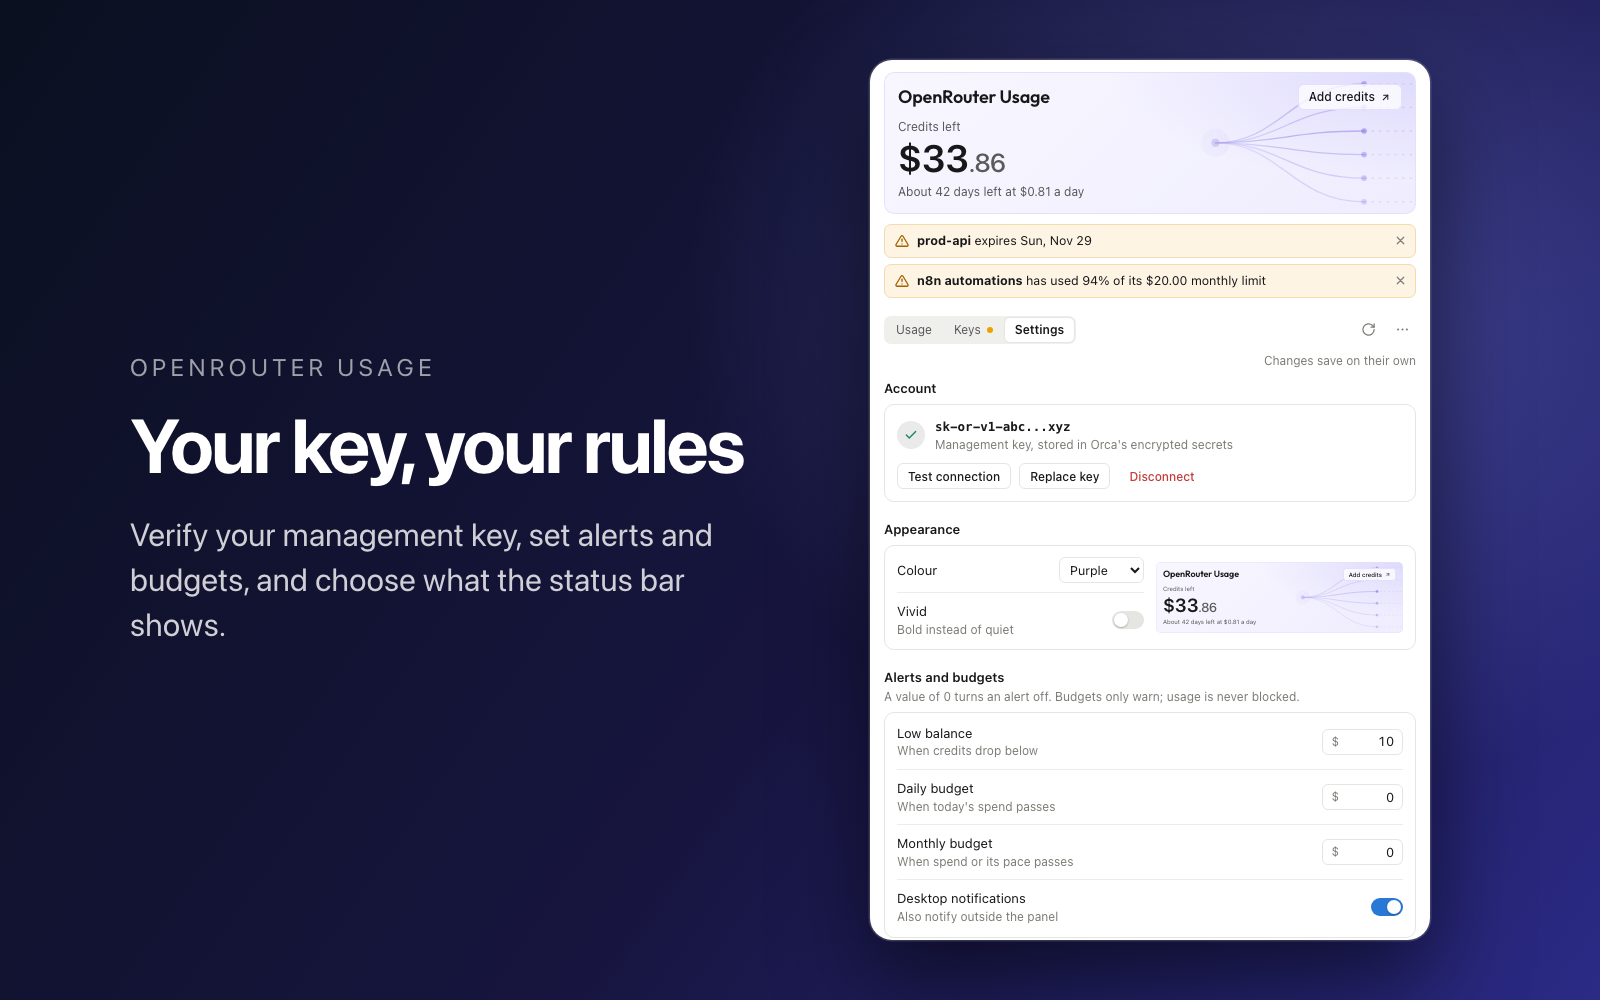
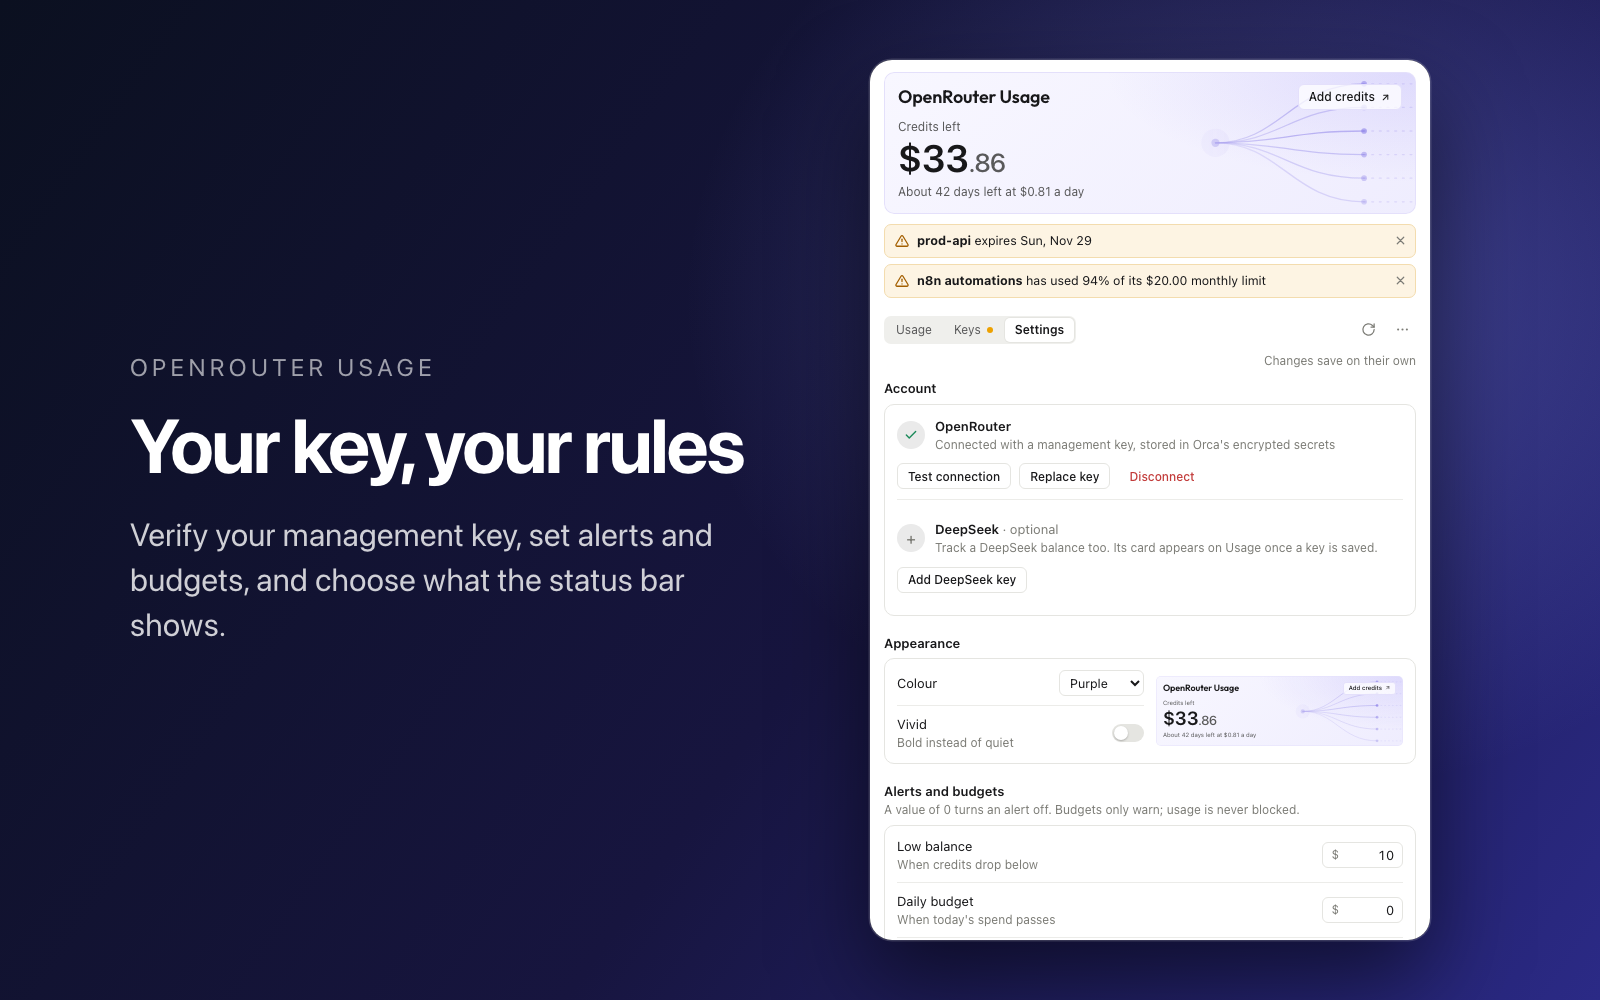
feat: status bar shows today's spend; hover for each account, click for the panel
The status bar item now shows only what was spent today: OpenRouter's
key totals plus DeepSeek's balance drop since UTC midnight when it is in
dollars. Its tooltip has one line per account (balance, today's spend,
days left), and a click shows or hides the right sidebar. It turns amber
or red when either account runs low. Removes the "Next to credits"
setting it replaces.

diff --git a/src/worker.ts b/src/worker.ts
@@ -1,11 +1,11 @@
 // The plugin's worker: owns the API keys, the network, the cache and the alerts. The panel only
 // asks it for finished reports (src/protocol.ts) and never sees a key.
 import type { OrcaWorkerApi } from 'orca/worker'
-import type { BannerColor, DayRow, DeepSeekView, KeyInfo, Measure, Range, Report, Settings, Status, StatusBarContent } from './protocol'
+import type { BannerColor, DayRow, DeepSeekView, KeyInfo, Measure, Range, Report, Settings, Status } from './protocol'
 import { OpenRouterError, createClient, getActivity, getCredits, getKeyActivity, getKeyMeta, listKeys } from './core/openrouter'
 import { buildReport, keyMayHaveRecentActivity, normalizeActivity, normalizeKeys, todaySpend } from './core/report'
 import { addSnapshot, mergeDays, pruneRows, type Snapshot } from './core/history'
-import { addSnapshots, burnPerDay, describeDeepSeekError, getBalance, maskKey, DeepSeekError, type DeepSeekAccount, type DeepSeekSnapshot } from './core/deepseek'
+import { addSnapshots, burnPerDay, spentSince, describeDeepSeekError, getBalance, maskKey, DeepSeekError, type DeepSeekAccount, type DeepSeekSnapshot } from './core/deepseek'
 import { reportCsv } from './core/csv'
 
 const MGMT_KEY = 'mgmtKey'
@@ -44,13 +44,11 @@ const DEFAULT_SETTINGS: Settings = {
   monthlyBudgetUsd: 0,
   notifications: true,
   statusBar: true,
-  statusBarContent: 'credits-today',
   includeByok: true,
   bannerColor: 'purple',
   bannerVivid: false,
 }
 
-const CONTENT_CHOICES: readonly StatusBarContent[] = ['credits', 'credits-today', 'credits-days']
 const BANNER_COLORS: readonly BannerColor[] = ['purple', 'gold', 'teal', 'rose', 'graphite']
 
 // Plain-English reasons for the failures a person can actually act on.
@@ -118,9 +116,6 @@ export default function activate(orca: OrcaWorkerApi): void {
       monthlyBudgetUsd: clampNumber(raw.monthlyBudgetUsd, 0, 1_000_000, DEFAULT_SETTINGS.monthlyBudgetUsd),
       notifications: bool('notifications'),
       statusBar: bool('statusBar'),
-      statusBarContent: CONTENT_CHOICES.includes(raw.statusBarContent as StatusBarContent)
-        ? (raw.statusBarContent as StatusBarContent)
-        : DEFAULT_SETTINGS.statusBarContent,
       includeByok: bool('includeByok'),
       bannerColor: BANNER_COLORS.includes(raw.bannerColor as BannerColor) ? (raw.bannerColor as BannerColor) : DEFAULT_SETTINGS.bannerColor,
       bannerVivid: bool('bannerVivid'),
@@ -162,18 +157,33 @@ export default function activate(orca: OrcaWorkerApi): void {
     const remaining = cache.credits.totalCredits - cache.credits.totalUsage
     const today = todaySpend(cache.keys, settings.includeByok)
     const low = settings.lowBalanceUsd
-    const tone = low > 0 && remaining <= low / 2 ? 'danger' : low > 0 && remaining <= low ? 'warning' : 'neutral'
-    let extra = ''
-    if (settings.statusBarContent === 'credits-today') extra = ` · ${usd(today)} today`
-    else if (settings.statusBarContent === 'credits-days') {
-      const days = (await currentReport('7d', 'cost'))?.balance.daysLeft
-      if (days != null) extra = ` · ~${Math.round(days)}d left`
+    let tone: 'neutral' | 'warning' | 'danger' = low > 0 && remaining <= low / 2 ? 'danger' : low > 0 && remaining <= low ? 'warning' : 'neutral'
+    const report = await currentReport('7d', 'cost', settings)
+    const days = report?.balance.daysLeft
+    const lines = [`OpenRouter: ${usd(remaining)} left · ${usd(today)} today${days != null ? ` · about ${Math.round(days)} day${Math.round(days) === 1 ? '' : 's'} left` : ''}`]
+    // The text is what was spent today: OpenRouter plus DeepSeek when it is in dollars.
+    let spent = today
+    const ds = await deepSeekView()
+    if (ds) {
+      if (ds.authFailed) lines.push('DeepSeek: key rejected')
+      for (const b of ds.balances) {
+        const money = b.currency === 'USD' ? usd : (n: number) => `${n.toFixed(2)} ${b.currency}`
+        const parts = [`${money(b.total)} left`]
+        if (b.spentToday != null) parts.push(`about ${money(b.spentToday)} today`)
+        if (b.daysLeft != null) parts.push(`about ${Math.round(b.daysLeft)} day${Math.round(b.daysLeft) === 1 ? '' : 's'} left`)
+        lines.push(`DeepSeek: ${parts.join(' · ')}`)
+        if (b.currency === 'USD' && b.spentToday != null) spent += b.spentToday
+        if (ds.available === false || (b.daysLeft != null && b.daysLeft <= 1)) tone = 'danger'
+        else if (b.daysLeft != null && b.daysLeft <= 3 && tone === 'neutral') tone = 'warning'
+      }
+      if (ds.authFailed && tone === 'neutral') tone = 'warning'
     }
+    lines.push('Click to show or hide the panel.')
     await orca.host.call('statusBar.update', {
       id: 'balance',
-      text: `${usd(remaining)} left${extra}`,
+      text: `${usd(spent)} today`,
       tone,
-      tooltip: 'OpenRouter credits left',
+      tooltip: lines.join('\n'),
       visible: true,
     })
   }
@@ -344,9 +354,9 @@ export default function activate(orca: OrcaWorkerApi): void {
         const label = await getKeyMeta(createClient({ key })).catch(() => null)
         if (label) await orca.storage.set(KEY_LABEL, label.label as never)
       }
+      await refreshDeepSeek()
       await updateStatusBar()
       if (outcome.ok) await checkAlerts()
-      await refreshDeepSeek()
     } catch (e) {
       orca.log(`post-refresh step failed: ${e instanceof Error ? e.message : 'error'}`)
     }
@@ -424,7 +434,8 @@ export default function activate(orca: OrcaWorkerApi): void {
       available: cache ? cache.available : null,
       balances: (cache?.balances ?? []).map((b) => {
         const burn = burnPerDay(snaps, b.currency, now)
-        return { ...b, burnPerDay: burn, daysLeft: burn && burn > 0 ? b.total / burn : null }
+        const midnight = Date.parse(new Date(now).toISOString().slice(0, 10) + 'T00:00:00Z')
+        return { ...b, burnPerDay: burn, daysLeft: burn && burn > 0 ? b.total / burn : null, spentToday: spentSince(snaps, b.currency, midnight) }
       }),
       updatedAt: cache ? cache.at : null,
       error: meta.error,
@@ -453,12 +464,14 @@ export default function activate(orca: OrcaWorkerApi): void {
     await orca.storage.set('dsSnapshots', addSnapshots([], account, now) as never)
     await orca.storage.set('dsMeta', { error: null, authFailed: false } as never)
     orca.panels.post('report.changed', { at: now })
+    detach(updateStatusBar())
     return { ok: true as const, label }
   })
 
   orca.panels.handle('deepseek.test', async () => {
     if (!(await orca.secrets.get(DS_KEY))) return { ok: false as const, error: 'No DeepSeek key saved.' }
     await refreshDeepSeek()
+    detach(updateStatusBar())
     const meta = await load<DsMeta>('dsMeta', { error: null, authFailed: false })
     return meta.error ? { ok: false as const, error: meta.error } : { ok: true as const }
   })
@@ -468,6 +481,7 @@ export default function activate(orca: OrcaWorkerApi): void {
     await orca.secrets.delete(DS_KEY)
     for (const k of DS_STORE) await orca.storage.delete(k)
     orca.panels.post('report.changed', { at: Date.now() })
+    detach(updateStatusBar())
     return { ok: true as const }
   })
 
@@ -545,7 +559,6 @@ export default function activate(orca: OrcaWorkerApi): void {
     if (patch.monthlyBudgetUsd !== undefined) next.monthlyBudgetUsd = clampNumber(patch.monthlyBudgetUsd, 0, 1_000_000, next.monthlyBudgetUsd)
     if (typeof patch.notifications === 'boolean') next.notifications = patch.notifications
     if (typeof patch.statusBar === 'boolean') next.statusBar = patch.statusBar
-    if (patch.statusBarContent !== undefined && CONTENT_CHOICES.includes(patch.statusBarContent)) next.statusBarContent = patch.statusBarContent
     if (typeof patch.includeByok === 'boolean') next.includeByok = patch.includeByok
     if (patch.bannerColor !== undefined && BANNER_COLORS.includes(patch.bannerColor)) next.bannerColor = patch.bannerColor
     if (typeof patch.bannerVivid === 'boolean') next.bannerVivid = patch.bannerVivid

diff --git a/src/worker.test.ts b/src/worker.test.ts
@@ -109,7 +109,7 @@ test('saves the key, remembers its masked label, and serves a report without tot
   assert.ok(!('totalCredits' in report.balance) && !('totalUsage' in report.balance))
   assert.ok(report.daily.length > 0)
   assert.ok(report.models[0].series.length > 0)
-  assert.ok(lastBar(host).text?.includes('left'))
+  assert.ok(lastBar(host).text?.endsWith(' today'))
   // The key lives only in secrets, and the total never reaches the status bar.
   assert.ok(!JSON.stringify(host.data().storage).includes(MGMT))
   assert.ok(!JSON.stringify(worker.posts).includes(MGMT))
@@ -234,7 +234,7 @@ test('a rejected key turns the status bar red, and recovers on the next good ref
   assert.equal(lastBar(host).text, 'OpenRouter: key rejected')
   assert.equal(lastBar(host).tone, 'danger')
   await withFetch(fakeFetch(), () => worker.request('refresh'))
-  assert.ok(lastBar(host).text?.includes('left'))
+  assert.ok(lastBar(host).text?.endsWith(' today'))
 })
 
 test('banner colour and vivid default to purple and quiet, save valid choices and ignore others', async () => {
@@ -249,15 +249,14 @@ test('banner colour and vivid default to purple and quiet, save valid choices an
   assert.equal((await get()).bannerColor, 'gold')
 })
 
-test('status bar content follows the setting', async () => {
-  const credits = await connected({ statusBarContent: 'credits' })
-  assert.ok(/^\$[\d.]+ left$/.test(lastBar(credits.host).text ?? ''), lastBar(credits.host).text)
-  const today = await connected({ statusBarContent: 'credits-today' })
-  assert.ok(lastBar(today.host).text?.includes('today'))
-  const days = await connected({ statusBarContent: 'credits-days' })
-  assert.ok(/left · ~\d+d left$/.test(lastBar(days.host).text ?? ''), lastBar(days.host).text)
-  const out = (await days.worker.request('settings.set', { statusBarContent: 'nonsense' as never })) as Settings
-  assert.equal(out.statusBarContent, 'credits-days') // invalid values are ignored
+test('the status bar shows what was spent today, with each account in the tooltip', async () => {
+  const { host, worker } = await connected()
+  const report = (await worker.request('report.get', QUERY)) as Report
+  const bar = lastBar(host)
+  assert.equal(bar.text, `$${report.tiles.today.toFixed(2)} today`)
+  assert.ok(bar.tooltip?.startsWith('OpenRouter: $'), bar.tooltip)
+  assert.ok(bar.tooltip?.includes(' left · '))
+  assert.ok(!bar.tooltip?.includes('DeepSeek')) // no DeepSeek key, no DeepSeek line
 })
 
 test('BYOK daily totals reach the report, status bar and daily budget alert', async () => {
@@ -265,7 +264,7 @@ test('BYOK daily totals reach the report, status bar and daily budget alert', as
   await withFetch(fakeFetch({ byokDaily: 3 }), () => worker.request('refresh'))
   const on = (await worker.request('report.get', QUERY)) as Report
   assert.ok(on.tiles.today >= 3)
-  assert.ok(lastBar(host).text?.includes(`$${on.tiles.today.toFixed(2)} today`))
+  assert.equal(lastBar(host).text, `$${on.tiles.today.toFixed(2)} today`)
   assert.equal(host.callsOf('notifications.show').filter((n) => (n as { title: string }).title.includes('daily budget')).length, 1)
   await worker.request('settings.set', { includeByok: false })
   const off = (await worker.request('report.get', QUERY)) as Report
@@ -508,5 +507,16 @@ test('testing the DeepSeek connection re-reads the balance and reports failures'
   assert.equal(((await worker.request('deepseek.get')) as DeepSeekView).balances[0].total, 8.5)
   const bad = await withFetch(withDeepSeek({ total: '1', status: 401 }), () => worker.request('deepseek.test'))
   assert.deepEqual(bad, { ok: false, error: 'DeepSeek rejected this key. It may be mistyped or revoked.' })
+})
+
+test('a DeepSeek key adds its line to the status bar tooltip and its dollars to today', async () => {
+  const { host, worker } = await connected()
+  await withFetch(withDeepSeek({ total: '12.50' }), () => worker.request('deepseek.save', { apiKey: DS }))
+  await new Promise((r) => setTimeout(r, 20))
+  const bar = lastBar(host)
+  assert.ok(bar.tooltip?.split('\n').some((l) => l.startsWith('DeepSeek: $12.50 left')), bar.tooltip)
+  await worker.request('deepseek.clear')
+  await new Promise((r) => setTimeout(r, 20))
+  assert.ok(!lastBar(host).tooltip?.includes('DeepSeek'))
 })
 

diff --git a/panel/index.html b/panel/index.html
@@ -372,7 +372,6 @@ const RANGE_DAYS = { '7d': 7, '30d': 30 };
 const MONTHS = ['Jan', 'Feb', 'Mar', 'Apr', 'May', 'Jun', 'Jul', 'Aug', 'Sep', 'Oct', 'Nov', 'Dec'];
 const MONTHS_LONG = ['January', 'February', 'March', 'April', 'May', 'June', 'July', 'August', 'September', 'October', 'November', 'December'];
 const WD = ['Sun', 'Mon', 'Tue', 'Wed', 'Thu', 'Fri', 'Sat'];
-const SBC = [['credits', 'Nothing else'], ['credits-today', "Today's spend"], ['credits-days', 'Days left']];
 const HEAT_DAYS = 182;
 const WEEKLY_AFTER = 92;   // the All range draws weekly bars once it holds more days than this
 
@@ -1150,8 +1149,7 @@ function settingsHtml() {
     ${row('Monthly budget', 'When spend or its pace passes', num('monthlyBudgetUsd', 'Monthly budget in dollars', '$', '', 'min="0" step="any"'))}
     ${row('Desktop notifications', 'Also notify outside the panel', sw('notifications', 'Desktop notifications'))}`);
   const bar = group('sb', 'Status bar', '', `
-    ${row('Show credits', '', sw('statusBar', 'Show credits in the status bar'))}
-    ${row('Next to credits', '', `<select class="select" aria-label="Status bar shows" data-set="statusBarContent" data-fk="set:statusBarContent"${s.statusBar ? '' : ' disabled'}>${SBC.map(([v, l]) => `<option value="${v}"${s.statusBarContent === v ? ' selected' : ''}>${esc(l)}</option>`).join('')}</select>`, !s.statusBar)}`);
+    ${row('Show today\'s spend', 'Hover it for each account; click it to open this panel', sw('statusBar', 'Show today\'s spend in the status bar'))}`);
   const data = group('data', 'Data', '', `
     ${row('Refresh every', 'How often Orca checks OpenRouter', num('refreshMinutes', 'Refresh interval in minutes', '', 'min', 'min="1" max="120" step="1"'))}
     ${row('Count BYOK usage', 'Requests made with your own provider keys', sw('includeByok', 'Count BYOK usage in spend'))}`);
@@ -1729,14 +1727,13 @@ function makeMock() {
   const NEW = has('new');
   const DOWN = has('offline') ? "Can't reach OpenRouter. Check your internet connection." : has('revoked') ? 'OpenRouter rejected this key. It may be mistyped or revoked.' : null;
   let configured = !has('setup');
-  const settings = { refreshMinutes: 15, lowBalanceUsd: 10, dailyBudgetUsd: 0, monthlyBudgetUsd: has('budget') ? 25 : 0, notifications: true, statusBar: true, statusBarContent: 'credits-today', includeByok: true, bannerColor: (location.hash.match(/(?:^#|,)banner=([a-z]+)/) || [])[1] || 'purple', bannerVivid: has('vivid') };
+  const settings = { refreshMinutes: 15, lowBalanceUsd: 10, dailyBudgetUsd: 0, monthlyBudgetUsd: has('budget') ? 25 : 0, notifications: true, statusBar: true, includeByok: true, bannerColor: (location.hash.match(/(?:^#|,)banner=([a-z]+)/) || [])[1] || 'purple', bannerVivid: has('vivid') };
   const clampSettings = (p) => {
     const out = {};
     if ('refreshMinutes' in p) out.refreshMinutes = Math.min(120, Math.max(1, Math.round(+p.refreshMinutes) || 1));
     if ('lowBalanceUsd' in p) out.lowBalanceUsd = Math.max(0, +p.lowBalanceUsd || 0);
     if ('dailyBudgetUsd' in p) out.dailyBudgetUsd = Math.max(0, +p.dailyBudgetUsd || 0);
     if ('monthlyBudgetUsd' in p) out.monthlyBudgetUsd = Math.max(0, +p.monthlyBudgetUsd || 0);
-    if ('statusBarContent' in p && SBC.some(([v]) => v === p.statusBarContent)) out.statusBarContent = p.statusBarContent;
     if ('bannerColor' in p && BANNER_COLORS.some(([v]) => v === p.bannerColor)) out.bannerColor = p.bannerColor;
     if ('bannerVivid' in p) out.bannerVivid = !!p.bannerVivid;
     ['notifications', 'statusBar', 'includeByok'].forEach((k) => { if (k in p) out[k] = !!p[k]; });

diff --git a/src/protocol.ts b/src/protocol.ts
@@ -154,6 +154,8 @@ export interface DeepSeekView {
     /** Mean daily spend from balance snapshots over the last 7 days; null with under 12 hours of history. */
     burnPerDay: number | null
     daysLeft: number | null
+    /** How much the balance dropped since UTC midnight, ignoring top-ups; null before today's first reading. */
+    spentToday: number | null
   }[]
   /** When the balance was last read, ms epoch. */
   updatedAt: number | null
@@ -173,7 +175,6 @@ export interface Status {
   lastError: string | null
 }
 
-export type StatusBarContent = 'credits' | 'credits-today' | 'credits-days'
 export type BannerColor = 'purple' | 'gold' | 'teal' | 'rose' | 'graphite'
 
 /** Options the person can change in the panel's settings view. Mirrors the manifest's `contributes.settings`. */
@@ -189,8 +190,6 @@ export interface Settings {
   notifications: boolean
   /** Show the credits-left item in Orca's status bar. */
   statusBar: boolean
-  /** What the status bar item says after the credits: nothing, today's spend, or the days left. */
-  statusBarContent: StatusBarContent
   /** Count BYOK (bring your own key) usage in spend figures. */
   includeByok: boolean
   /** The credits banner's colour. */

diff --git a/src/core/deepseek.test.ts b/src/core/deepseek.test.ts
@@ -1,5 +1,5 @@
 import { test, assert } from 'orca/testing'
-import { DeepSeekError, addSnapshots, burnPerDay, getBalance, maskKey, parseBalance } from './deepseek'
+import { DeepSeekError, addSnapshots, burnPerDay, getBalance, maskKey, parseBalance, spentSince } from './deepseek'
 
 const H = 3_600_000
 const D = 24 * H
@@ -62,3 +62,16 @@ test('maskKey shows only the prefix and last four characters', () => {
   assert.equal(maskKey('sk-0123456789abcdef'), 'sk-…cdef')
   assert.equal(maskKey('short'), '••••')
 })
+
+test('spent today counts drops since midnight from the last reading before it, ignoring top-ups', () => {
+  const midnight = Date.parse('2026-11-26T00:00:00Z')
+  const snaps = [
+    { t: midnight - 2 * H, currency: 'USD', total: 10 },
+    { t: midnight + 1 * H, currency: 'USD', total: 9.5 },  // 0.5
+    { t: midnight + 2 * H, currency: 'USD', total: 20 },   // top-up
+    { t: midnight + 3 * H, currency: 'USD', total: 19.75 }, // 0.25
+  ]
+  assert.equal(spentSince(snaps, 'USD', midnight), 0.75)
+  assert.equal(spentSince(snaps.slice(0, 1), 'USD', midnight), null) // no reading today yet
+})
+

diff --git a/src/core/deepseek.ts b/src/core/deepseek.ts
@@ -127,6 +127,21 @@ export function burnPerDay(snapshots: DeepSeekSnapshot[], currency: string, now:
   return spent / (span / DAY_MS)
 }
 
+/**
+ * What one currency's balance dropped by since `since` (e.g. UTC midnight), ignoring top-ups. The last
+ * reading before `since` is the starting point; with no reading before it, spend starts at the first one after.
+ */
+export function spentSince(snapshots: DeepSeekSnapshot[], currency: string, since: number): number | null {
+  const pts = snapshots.filter((s) => s.currency === currency).sort((a, b) => a.t - b.t)
+  const before = pts.filter((s) => s.t < since).slice(-1)
+  const after = pts.filter((s) => s.t >= since)
+  const run = [...before, ...after]
+  if (!after.length) return null
+  let spent = 0
+  for (let i = 1; i < run.length; i++) spent += Math.max(0, run[i - 1].total - run[i].total)
+  return spent
+}
+
 /** Masks a key for display: its prefix and last four characters only. */
 export function maskKey(key: string): string {
   const k = key.trim()

diff --git a/CHANGELOG.md b/CHANGELOG.md
@@ -7,6 +7,8 @@
 - Settings → Account lists OpenRouter and DeepSeek by name, each with Test connection, Replace key and Disconnect or Remove. Testing DeepSeek also takes a fresh balance reading.
 - Warnings under the banner when the DeepSeek balance is used up, has about 3 days or less left, or the key is rejected.
 - The DeepSeek key is verified, stored in Orca's encrypted secrets and only used for `GET https://api.deepseek.com/user/balance`. Removing it forgets the key and every reading.
+- The status bar shows only what you spent today (OpenRouter, plus DeepSeek when it is in dollars). Hover it for each account on its own line: balance, today's spend and days left. Click it to show or hide the panel. It turns amber or red when either account runs low. The old "Next to credits" choice is gone.
+- DeepSeek's spend today is the drop in its balance since UTC midnight, ignoring top-ups, so it is approximate.
 - Fixed: changing a setting right after opening Settings could be undone by the settings loading in.
 
 ## 1.3.0

diff --git a/README.md b/README.md
@@ -16,7 +16,8 @@ Requires Orca 1.4.248 or later and an OpenRouter **management key** (OpenRouter 
   - **Settings**: verify, replace or disconnect your key, refresh interval, alerts, budgets, the status bar item, BYOK counting, and the banner's colour and vivid switch, with a live preview.
 - An optional **DeepSeek** balance: add a DeepSeek API key in Settings and a card shows its balance and how long it lasts. Hidden when no key is saved.
 - **CSV exports** of daily totals, models or API keys from the ⋯ menu.
-- A status bar item (`$25.20 left · $0.10 today`) and notifications when credits run low or a budget is passed.
+- A status bar item with what you spent today (`$4.18 today`). Hover it for each account's balance, today's spend and days left; click it to open the panel. It turns amber or red when credits run low.
+- Notifications when credits run low or a budget is passed.
 
 ## Install
 
